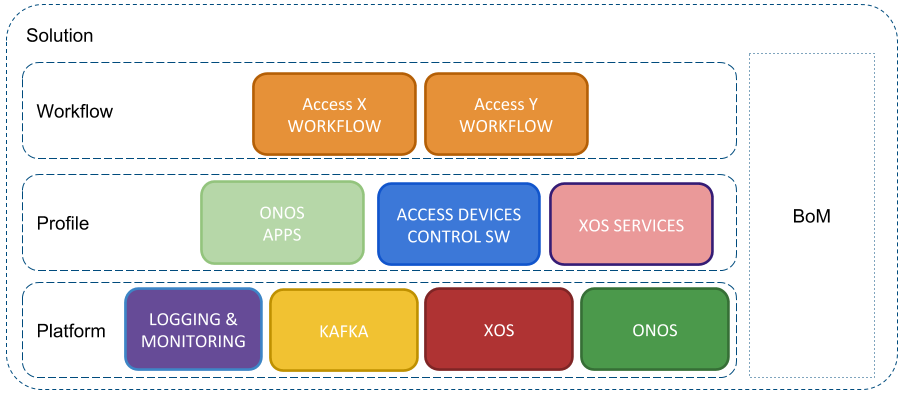
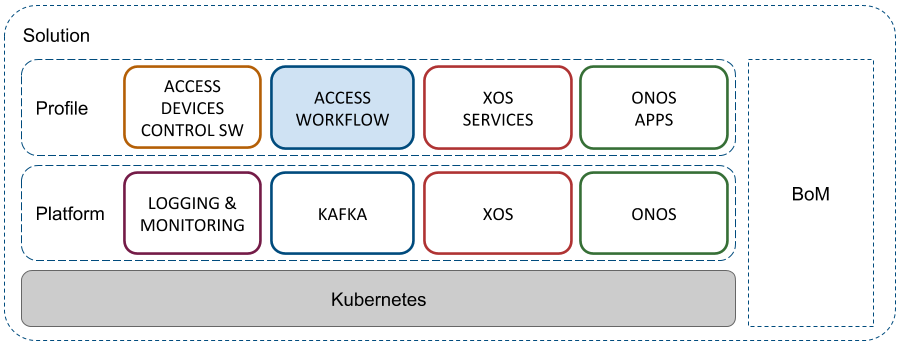
cleaned up Overview

diff --git a/navigate.md b/navigate.md
@@ -8,26 +8,28 @@ shown in the following conceptual diagram.
 
 ![Layers](images/layers.png)
 
-The three layers are:
+There are four major elements:
 
-* **Platform:** The bottom-most layer consists of ONOS, XOS,
+* **Kubernetes:** All elements of the CORD control plane run in
+  Kubernetes containers. CORD assumes a Kubernetes foundation,
+  but does not prescribe how the hardware or Kubernetes are installed.
+
+* **Platform:** The Platform layer consists of ONOS, XOS,
   Kafka, and collection of Logging and Monitoring micro-services,
-  all running on a Kubernetes foundation (not shown). This is the
-  starting point for all configurations of CORD.
+  all running on a Kubernetes foundation.
 
-* **Profile:** The middle layer typically consists of a set of
-  services (e.g., access services, VNFs, other cloud services). These
-  components run on the underlying platform, and includes both
-  abstract services on-boarded into XOS and SDN control apps running
-  on ONOS.  Examples of profiles are [SEBA](profiles/seba) and
+* **Profile:** Each unique CORD configuration corresponds to a
+  Profile. It consists of a set of services (e.g., access services,
+  VNFs, other cloud services), including both abstract services
+  on-boarded into XOS and SDN control apps running on ONOS.
+  Examples of profiles are [SEBA](profiles/seba) and
   [M-CORD](profiles/mcord).
-
-* **Workflows:** The top-most layer consists of one or more
-  workflows, each of which defines the business logic and state
-  machine for one of the access technologies included in the
-  profile. A workflow augments/parameterizes a profile for the target
-  deployment environment; it's not a software layer, per se.  SEBA's
-  [AT&T Workflow](profiles/seba/workflows/att.md) is an example.
+  
+* **Workflow:** A Profile includes one or more workflows, each of
+  which defines the business logic and state machine for one of the
+  access technologies. A workflow augments/parameterizes a Profile for
+  the target deployment environment; it is not a layer, per se.  SEBA's
+  [AT&T Workflow](profiles/seba/workflows/att-install.md) is an example.
 
 The diagram also shows a hardware bill-of-materials, which must be
 defined for a given POD.
@@ -47,7 +49,7 @@ each stage—is helpful in navigating CORD.
 
 * **Operations (TOSCA):** A running CORD POD supports multiple Northbound
   Interfaces (e.g., a GUI and REST API).  We typically use `TOSCA` to specify
-  a workflow for configuring and provisioning a running system. A freshly
+  a recipe for configuring and provisioning a running system. A freshly
   installed CORD POD has a set of control plane and platform level containers
   running (e.g., XOS, ONOS, OpenStack), but until provisioned using `TOSCA`,
   there are no services and no service graph. More information about `TOSCA`
@@ -59,9 +61,9 @@ each stage—is helpful in navigating CORD.
   writen in the `xproto` modeling language, and processed by the XOS
   tool-chain. Among other things, this tool-chain generates the
   TOSCA-engine that is used to process the configuration and provisioning
-  workflows used to operate CORD. More information about `xproto` (and
-  other details about on-boarding a service) can be found
-  [here](xos/dev/xproto.md).
+  recipes used to operate CORD. More information about `xproto` (and
+  other details about on-boarding a service) can be found in a companion
+  [XOS Guide](https://guide.xosproject.org).
 
 These tools and containers are inter-related as follows:
 
@@ -73,7 +75,7 @@ These tools and containers are inter-related as follows:
 * While the install and operate stages are distinct, for convenience,
   some helm-charts elect to launch a `tosca-loader` container
   (in Kubernetes parlance, it's a *job* and not a *service*) to load an initial
-  TOSCA workflow into a newly deployed set of services. This is how a
+  TOSCA recipe into a newly deployed set of services. This is how a
   service graph is typically instantiated.
 
 * While the CORD control plane is deployed as a set of Docker
@@ -81,14 +83,13 @@ These tools and containers are inter-related as follows:
   Some services run in VMs managed by OpenStack (this is currently
   the case for M-CORD) and some services are implemented as ONOS
   applications that have been packaged using Maven. In such cases,
-  the VM image and the Maven package are still specified in the TOSCA
-  workflow.
+  the VM image and the Maven package are still specified in TOSCA.
 
 * Every service (whether implemented in Docker, OpenStack, or ONOS)
   has a counter-part *synchronizer* container running as part of the CORD
   control plane (e.g., `volt-synchronizer` for the vOLT service). Typically,
   the helm-chart for a service launches this synchronizer container, whereas
-  the TOSCA worflow creates, provisions, and initializes the backend container,
+  the TOSCA recipe creates, provisions, and initializes the backend container,
   VM, or ONOS app.
 
 * Bringing up additional services in a running POD involves executing

diff --git a/overview.md b/overview.md
@@ -34,7 +34,7 @@ these stages, which is helpful in [Navigating CORD](navigate.md).
 ## Navigating the References
 
 CORD is built from components and the aggregation of components into a
-coherent solution. The References are organized accordingly:
+composite solution. The References are organized accordingly:
 
 * [Profile Reference](profiles/intro.md): Installation and
   configuation details for specific solutions built using CORD
